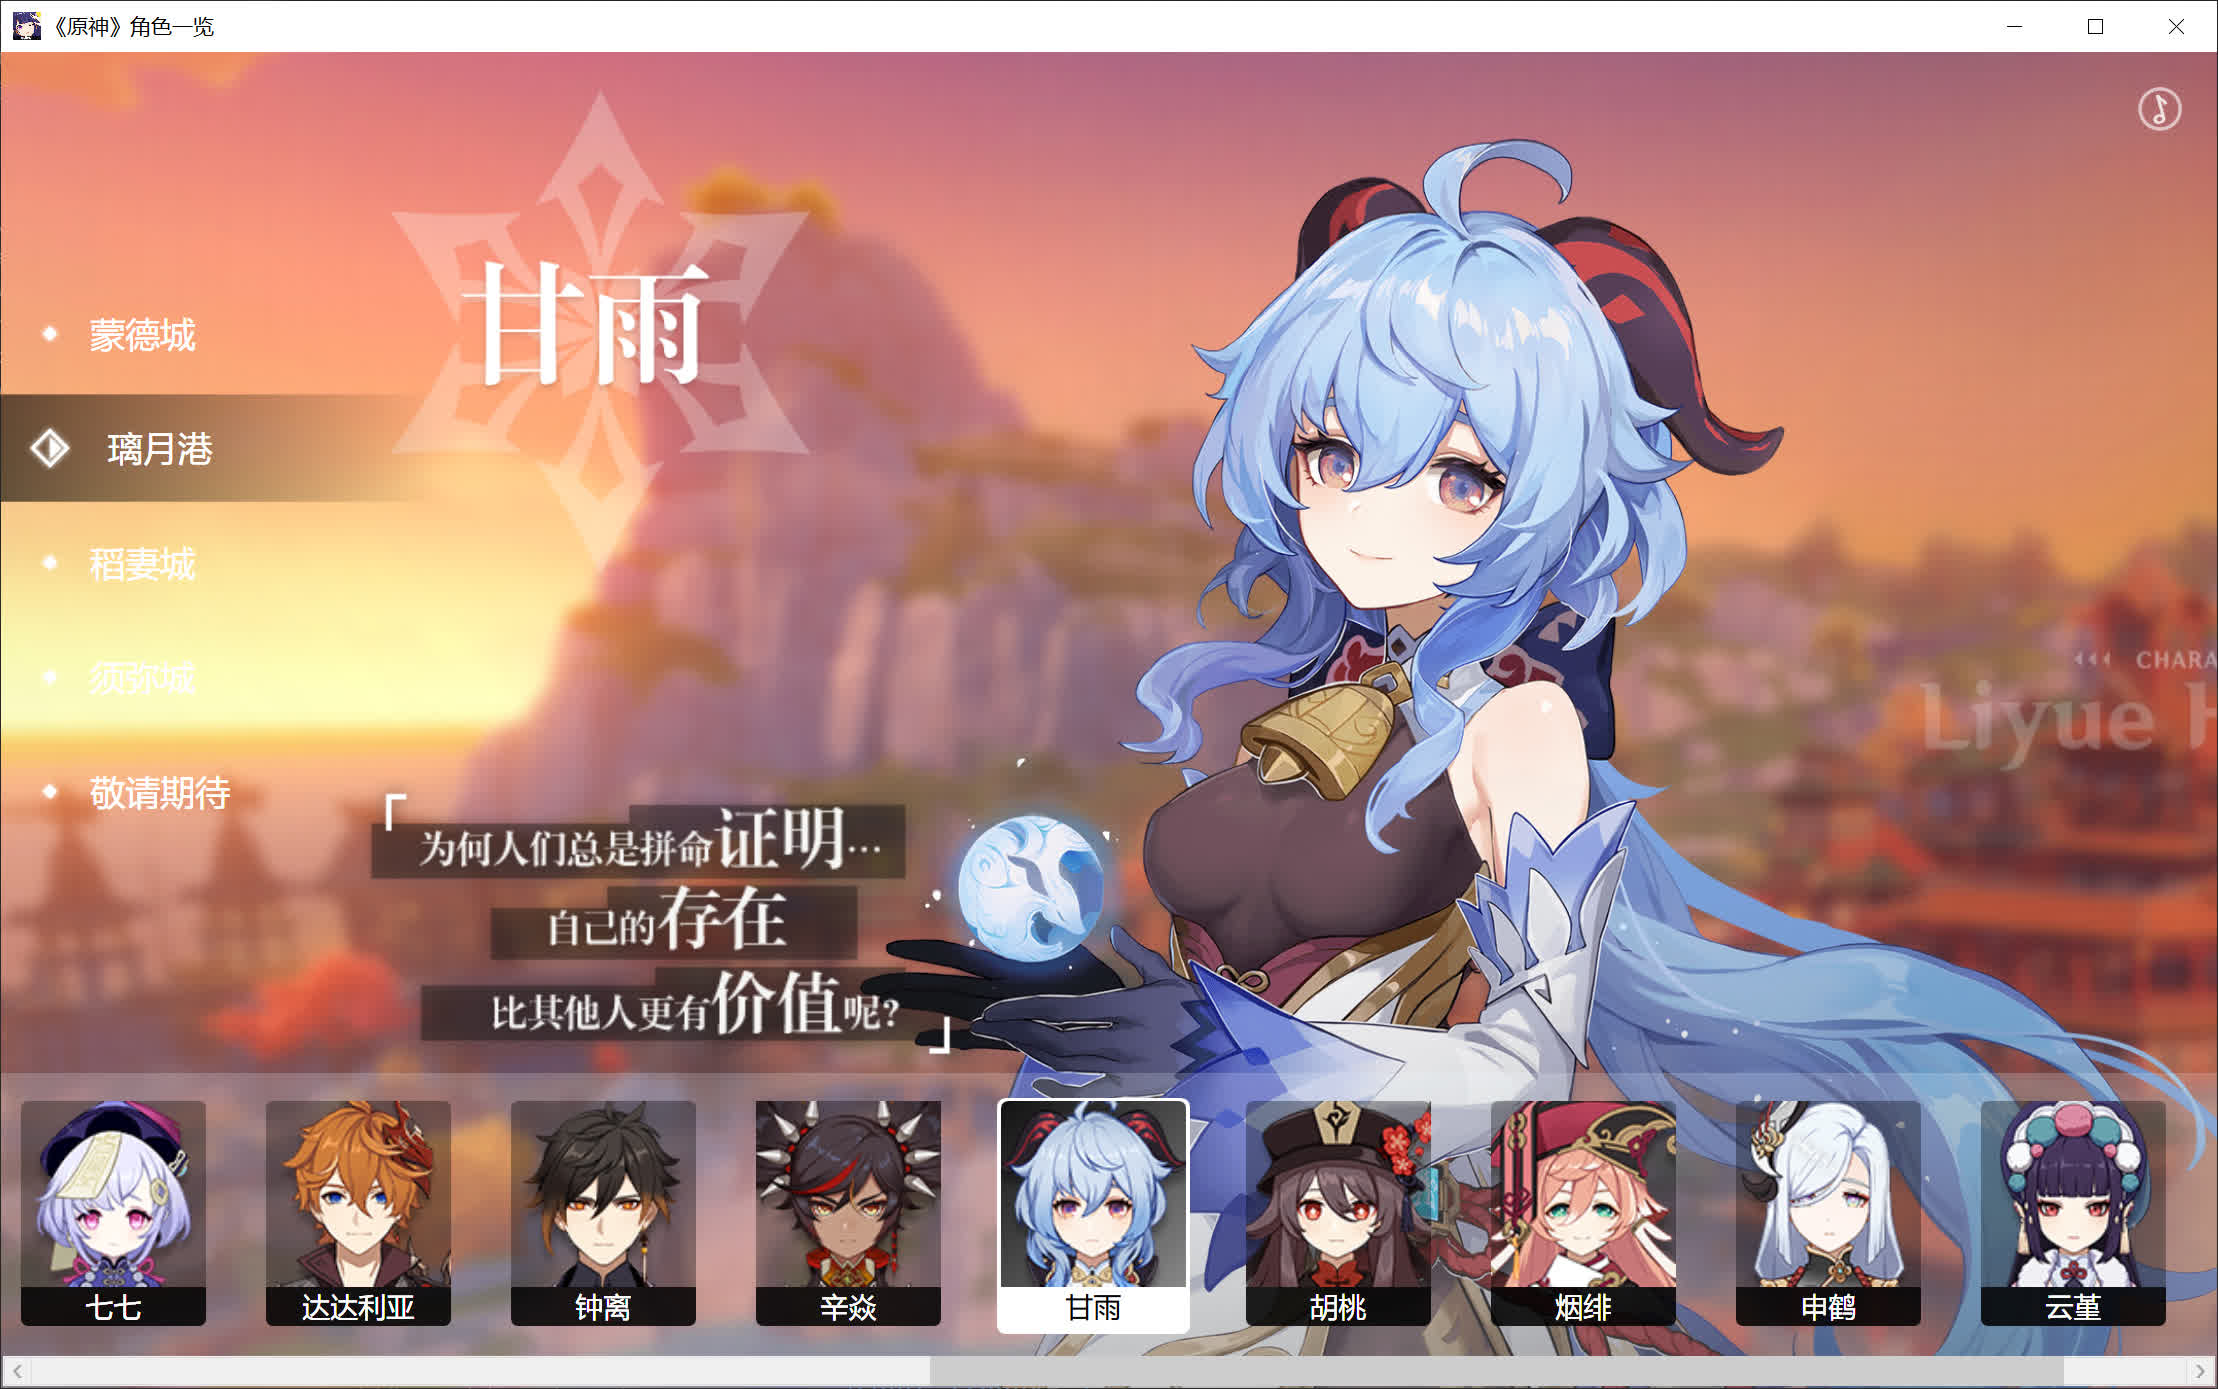
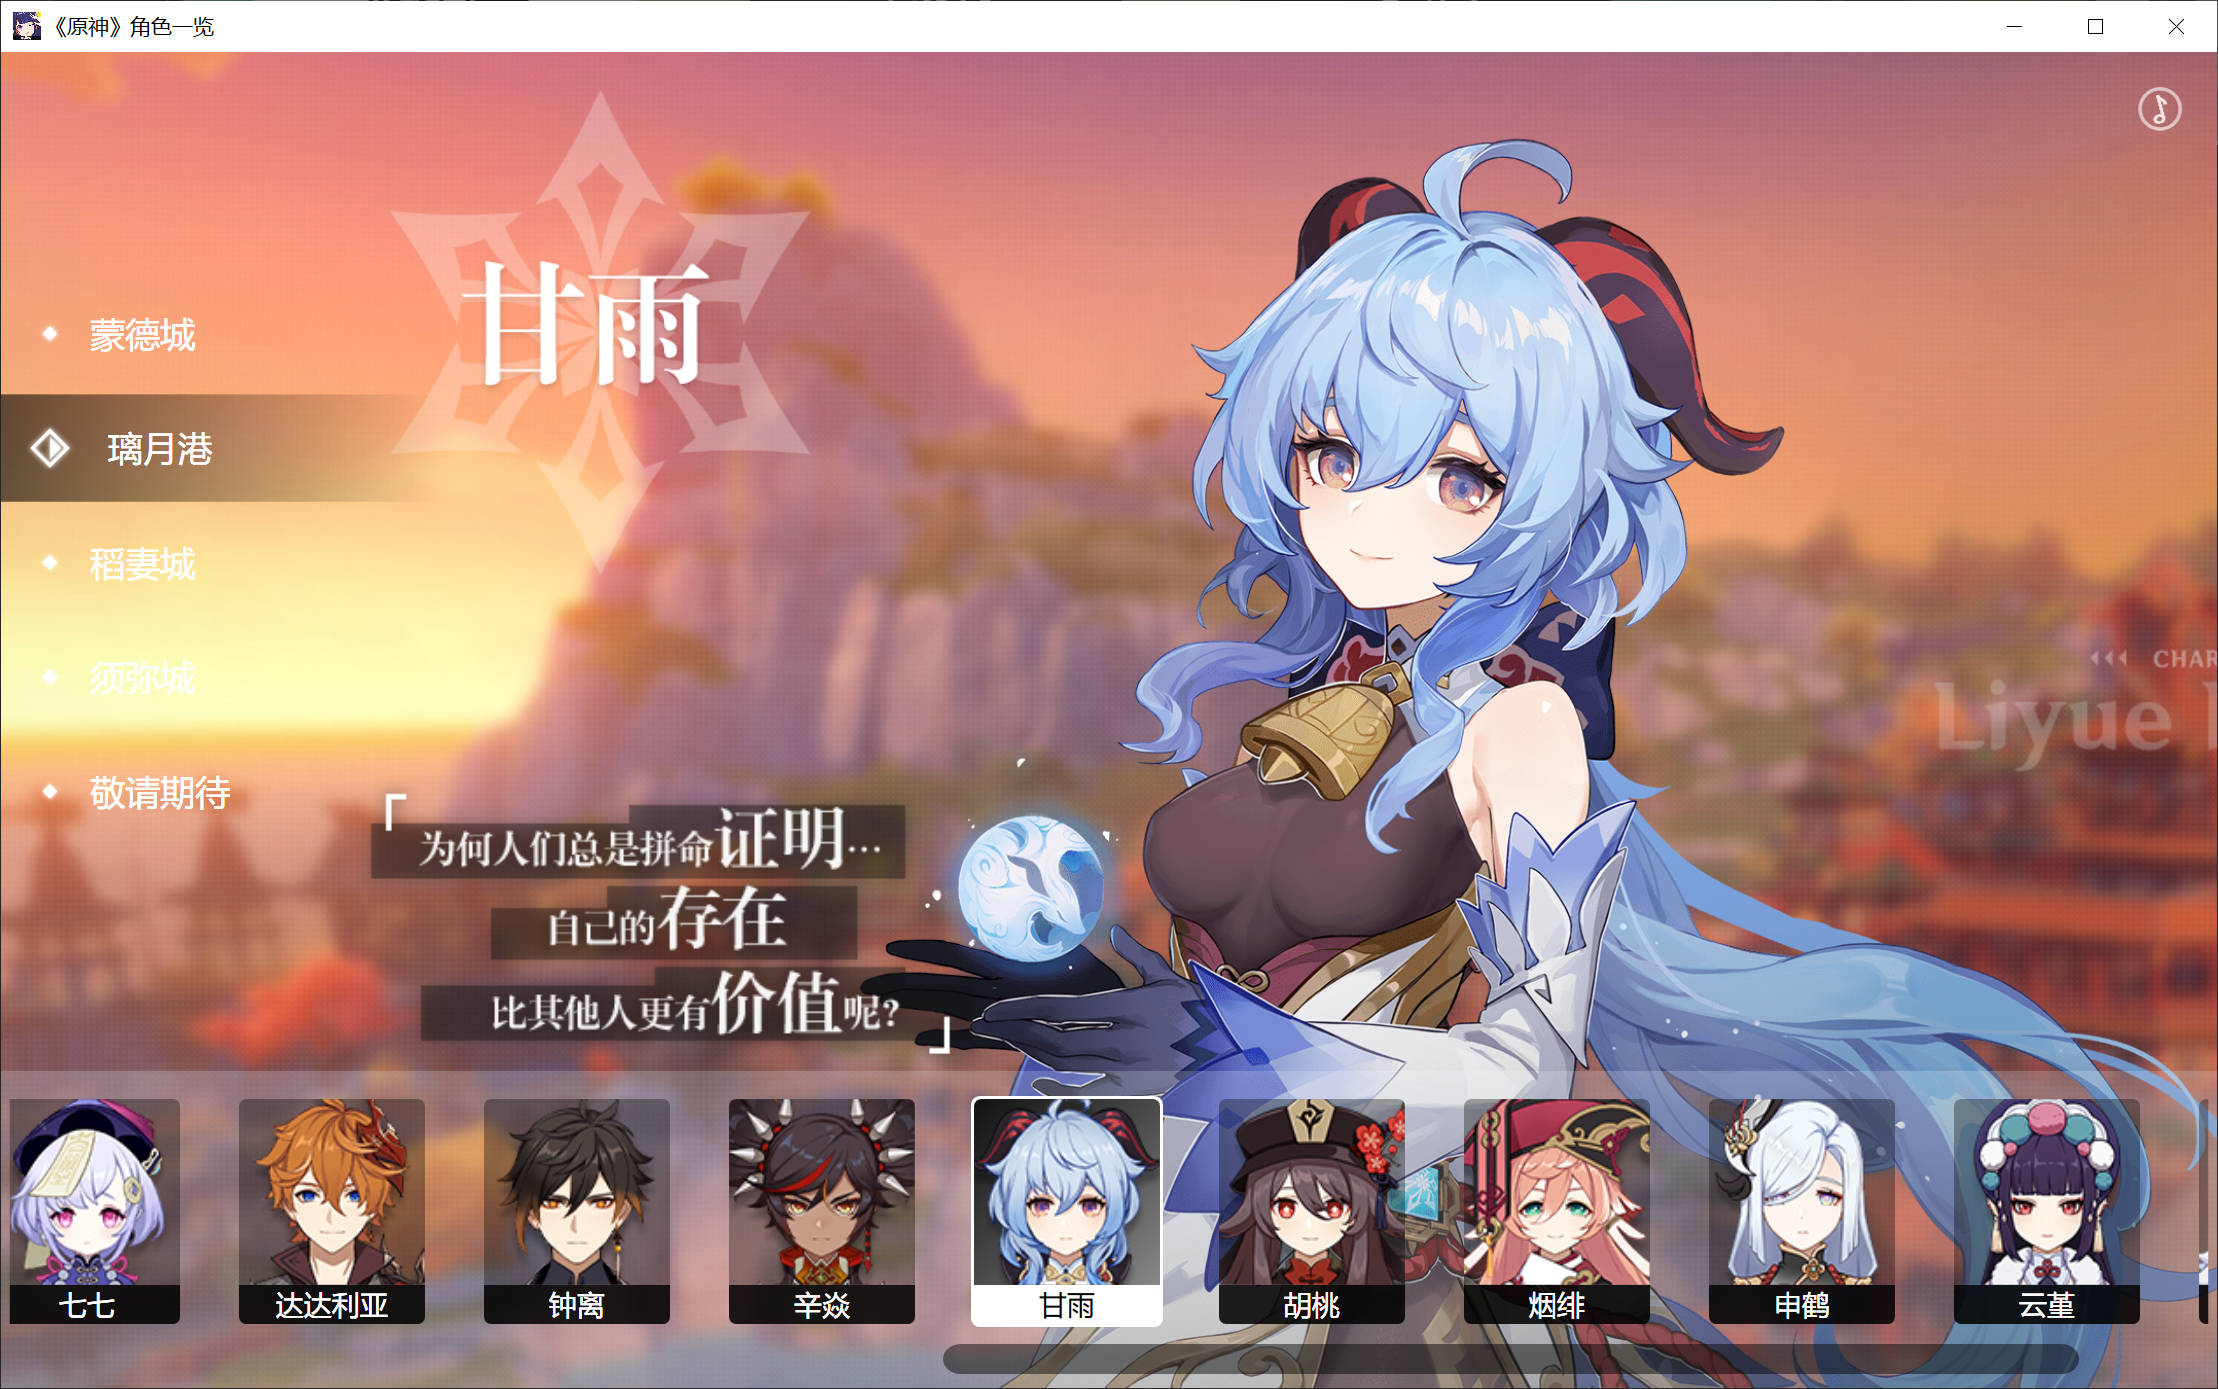
Custom horizontal scroll bar

diff --git a/src/MainWindow.xaml b/src/MainWindow.xaml
@@ -281,7 +281,8 @@
         <!-- 角色列表 -->
         <ListBox x:Name="charListBox"
                  Grid.Row="1"
-                 Padding="5"
+                 Margin="-1"
+                 Padding="5,5,5,2"
                  d:ItemsSource="{x:Null}"
                  d:SelectedIndex="0"
                  SelectedItem="{Binding SelectedItem}"
@@ -290,7 +291,57 @@
                  FocusVisualStyle="{x:Null}"
                  Background="#33f0f8ff"
                  ItemsSource="{Binding CharList}"
+                 ScrollViewer.VerticalScrollBarVisibility="Disabled"
                  ScrollViewer.HorizontalScrollBarVisibility="Visible">
+            <ListBox.Resources>
+                <Style TargetType="ScrollBar">
+                    <Setter Property="Margin" Value="18,0,18,8" />
+                    <Setter Property="Height" Value="Auto" />
+                    <Setter Property="Stylus.IsPressAndHoldEnabled" Value="false" />
+                    <Setter Property="Stylus.IsFlicksEnabled" Value="false" />
+                    <Setter Property="Foreground" Value="#7000" />
+                    <Setter Property="Template">
+                        <Setter.Value>
+                            <ControlTemplate TargetType="{x:Type ScrollBar}">
+                                <Grid SnapsToDevicePixels="true">
+                                    <Track x:Name="PART_Track" Grid.Column="1" IsEnabled="{TemplateBinding IsMouseOver}">
+                                        <Track.Thumb>
+                                            <Thumb>
+                                                <Thumb.Style>
+                                                    <Style TargetType="{x:Type Thumb}">
+                                                        <Setter Property="OverridesDefaultStyle" Value="true" />
+                                                        <Setter Property="IsTabStop" Value="false" />
+                                                        <Setter Property="Template">
+                                                            <Setter.Value>
+                                                                <ControlTemplate TargetType="{x:Type Thumb}">
+                                                                    <Rectangle Width="{TemplateBinding Width}"
+                                                                               Height="{TemplateBinding Height}"
+                                                                               Fill="{TemplateBinding Foreground}"
+                                                                               RadiusX="10"
+                                                                               RadiusY="10"
+                                                                               SnapsToDevicePixels="True" />
+                                                                    <ControlTemplate.Triggers>
+                                                                        <Trigger Property="IsMouseOver" Value="true">
+                                                                            <Setter Property="Foreground" Value="#9000" />
+                                                                        </Trigger>
+                                                                        <Trigger Property="IsDragging" Value="true">
+                                                                            <Setter Property="Foreground" Value="#9000" />
+                                                                        </Trigger>
+                                                                    </ControlTemplate.Triggers>
+                                                                </ControlTemplate>
+                                                            </Setter.Value>
+                                                        </Setter>
+                                                    </Style>
+                                                </Thumb.Style>
+                                            </Thumb>
+                                        </Track.Thumb>
+                                    </Track>
+                                </Grid>
+                            </ControlTemplate>
+                        </Setter.Value>
+                    </Setter>
+                </Style>
+            </ListBox.Resources>
             <i:Interaction.Triggers>
                 <i:EventTrigger EventName="SelectionChanged">
                     <i:ControlStoryboardAction ControlStoryboardOption="Play" Storyboard="{StaticResource protraitIn}" />
@@ -301,72 +352,77 @@
                     <StackPanel Orientation="Horizontal" />
                 </ItemsPanelTemplate>
             </ListBox.ItemsPanel>
+            <ListBox.ItemTemplate>
+                <DataTemplate>
+                    <Border Name="border"
+                            Margin="15,8"
+                            Background="Transparent"
+                            CornerRadius="5">
+                        <StackPanel Margin="2,2,2,1">
+                            <Border Name="iconBorder" Background="#5000" CornerRadius="4,4,0,0">
+                                <Grid>
+                                    <Image Source="{Binding IconUrl}" Stretch="Uniform">
+                                        <Image.OpacityMask>
+                                            <VisualBrush>
+                                                <VisualBrush.Visual>
+                                                    <Border Width="{Binding RelativeSource={RelativeSource AncestorType=Image}, Path=ActualWidth}"
+                                                            Height="{Binding RelativeSource={RelativeSource AncestorType=Image}, Path=ActualHeight}"
+                                                            CornerRadius="4,4,0,0"
+                                                            Background="White" />
+                                                </VisualBrush.Visual>
+                                            </VisualBrush>
+                                        </Image.OpacityMask>
+                                    </Image>
+                                </Grid>
+                            </Border>
+                            <Border Name="nameBorder"
+                                    Padding="0,1"
+                                    Background="#d000"
+                                    CornerRadius="0,0,4,4">
+                                <TextBlock Name="nameText"
+                                           HorizontalAlignment="Center"
+                                           Foreground="White"
+                                           Text="{Binding Name}"
+                                           FontSize="16" />
+                            </Border>
+                        </StackPanel>
+                    </Border>
+                    <DataTemplate.Triggers>
+                        <DataTrigger Binding="{Binding RelativeSource={RelativeSource AncestorType=ListBoxItem}, Path=IsSelected}" Value="True">
+                            <Setter TargetName="border" Property="Background" Value="White" />
+                            <Setter TargetName="nameBorder" Property="Background" Value="Transparent" />
+                            <Setter TargetName="nameText" Property="Foreground" Value="Black" />
+                            <Setter TargetName="iconBorder" Property="Background">
+                                <Setter.Value>
+                                    <LinearGradientBrush StartPoint="0,0" EndPoint="1,1">
+                                        <GradientStop Color="#111" />
+                                        <GradientStop Offset="1" Color="#7000" />
+                                    </LinearGradientBrush>
+                                </Setter.Value>
+                            </Setter>
+                        </DataTrigger>
+                        <Trigger Property="FrameworkElement.IsMouseOver" Value="True">
+                            <Setter TargetName="border" Property="Background" Value="White" />
+                            <Setter TargetName="nameBorder" Property="Background" Value="Transparent" />
+                            <Setter TargetName="nameText" Property="Foreground" Value="Black" />
+                            <Setter TargetName="iconBorder" Property="Background">
+                                <Setter.Value>
+                                    <LinearGradientBrush StartPoint="0,0" EndPoint="1,1">
+                                        <GradientStop Color="#111" />
+                                        <GradientStop Offset="1" Color="#7000" />
+                                    </LinearGradientBrush>
+                                </Setter.Value>
+                            </Setter>
+                        </Trigger>
+                    </DataTemplate.Triggers>
+                </DataTemplate>
+            </ListBox.ItemTemplate>
             <ListBox.ItemContainerStyle>
                 <Style TargetType="ListBoxItem">
                     <Setter Property="Template">
                         <Setter.Value>
                             <ControlTemplate TargetType="ListBoxItem">
-                                <Border Name="border"
-                                        Margin="15,8"
-                                        Background="Transparent"
-                                        CornerRadius="5">
-                                    <StackPanel Margin="2,2,2,1">
-                                        <Border Name="iconBorder" Background="#5000" CornerRadius="4,4,0,0">
-                                            <Grid>
-                                                <Image Source="{Binding IconUrl}" Stretch="Uniform">
-                                                    <Image.OpacityMask>
-                                                        <VisualBrush>
-                                                            <VisualBrush.Visual>
-                                                                <Border Width="{Binding RelativeSource={RelativeSource AncestorType=Image}, Path=ActualWidth}"
-                                                                        Height="{Binding RelativeSource={RelativeSource AncestorType=Image}, Path=ActualHeight}"
-                                                                        CornerRadius="4,4,0,0"
-                                                                        Background="White" />
-                                                            </VisualBrush.Visual>
-                                                        </VisualBrush>
-                                                    </Image.OpacityMask>
-                                                </Image>
-                                            </Grid>
-                                        </Border>
-                                        <Border Name="nameBorder"
-                                                Padding="0,1"
-                                                Background="#d000"
-                                                CornerRadius="0,0,4,4">
-                                            <TextBlock Name="nameText"
-                                                       HorizontalAlignment="Center"
-                                                       Foreground="White"
-                                                       Text="{Binding Name}"
-                                                       FontSize="16" />
-                                        </Border>
-                                    </StackPanel>
-                                </Border>
-                                <ControlTemplate.Triggers>
-                                    <Trigger Property="IsSelected" Value="True">
-                                        <Setter TargetName="border" Property="Background" Value="White" />
-                                        <Setter TargetName="nameBorder" Property="Background" Value="Transparent" />
-                                        <Setter TargetName="nameText" Property="Foreground" Value="Black" />
-                                        <Setter TargetName="iconBorder" Property="Background">
-                                            <Setter.Value>
-                                                <LinearGradientBrush StartPoint="0,0" EndPoint="1,1">
-                                                    <GradientStop Color="#111" />
-                                                    <GradientStop Offset="1" Color="#7000" />
-                                                </LinearGradientBrush>
-                                            </Setter.Value>
-                                        </Setter>
-                                    </Trigger>
-                                    <Trigger Property="IsMouseOver" Value="True">
-                                        <Setter TargetName="border" Property="Background" Value="White" />
-                                        <Setter TargetName="nameBorder" Property="Background" Value="Transparent" />
-                                        <Setter TargetName="nameText" Property="Foreground" Value="Black" />
-                                        <Setter TargetName="iconBorder" Property="Background">
-                                            <Setter.Value>
-                                                <LinearGradientBrush StartPoint="0,0" EndPoint="1,1">
-                                                    <GradientStop Color="#111" />
-                                                    <GradientStop Offset="1" Color="#7000" />
-                                                </LinearGradientBrush>
-                                            </Setter.Value>
-                                        </Setter>
-                                    </Trigger>
-                                </ControlTemplate.Triggers>
+                                <ContentPresenter />
                             </ControlTemplate>
                         </Setter.Value>
                     </Setter>
